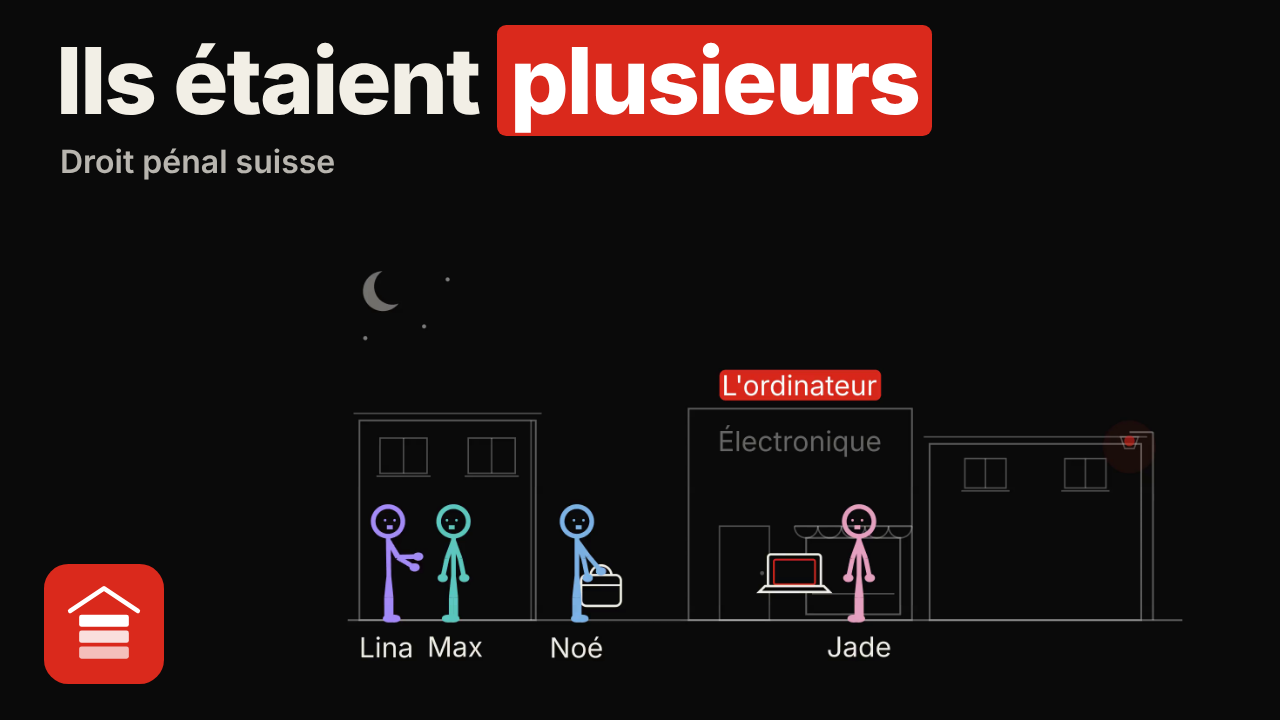
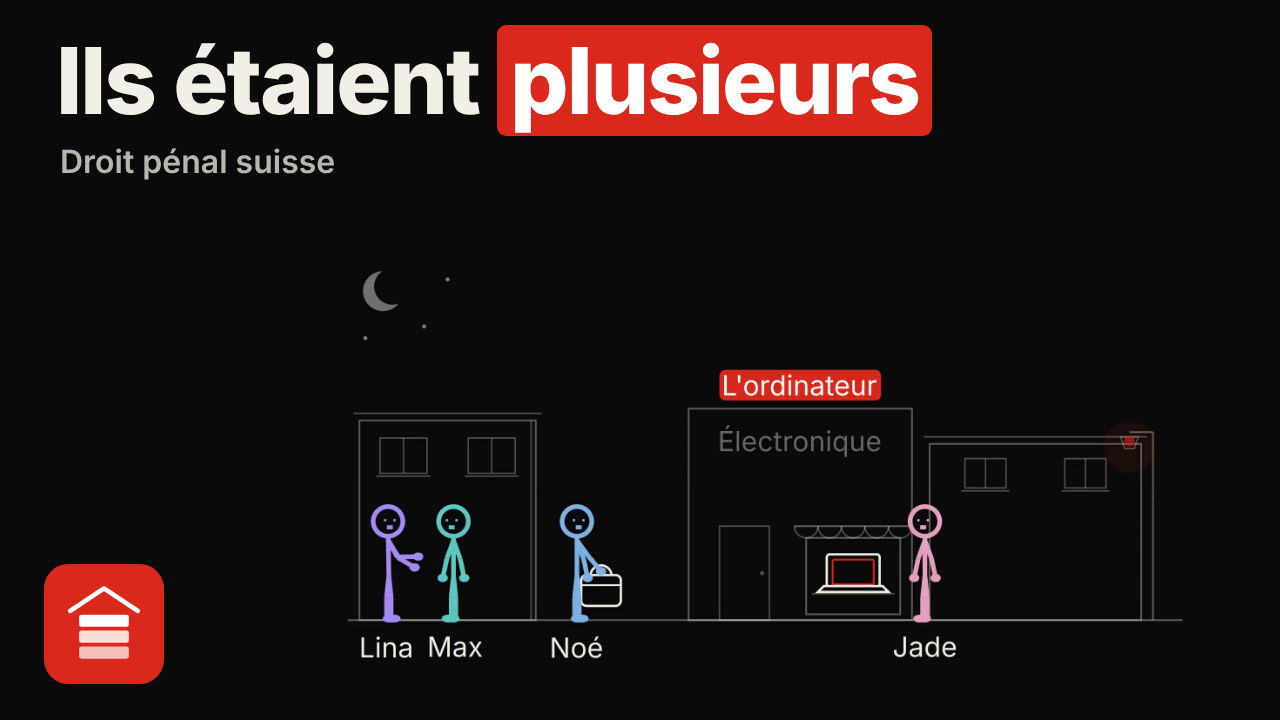
Vidéo 10 : rendu final (enregistrement d'origine, ordinateur en vitrine, « porté »)
Claude-Session: https://claude.ai/code/session_01UWa1JeTci227DpmXZSJt8k

Changed region(s): [[0.5938, 0.7028, 0.75, 0.9167]]

diff --git a/scripts/droit-penal-general/10-participation/publication.md b/scripts/droit-penal-general/10-participation/publication.md
@@ -36,12 +36,12 @@ Paul est, selon toute vraisemblance, complice. Sa voiture a transporté les outi
 
 Chapitres :
 0:00 Le cas de départ
-0:51 La carte : auteurs et participants
-1:19 Les coauteurs : Max et Jade
-2:16 L'instigatrice : Lina
-3:51 Le complice : Noé
-4:58 Le piège classique
-5:55 Conclusion et question
+0:52 La carte : auteurs et participants
+1:20 Les coauteurs : Max et Jade
+2:17 L'instigatrice : Lina
+3:53 Le complice : Noé
+5:00 Le piège classique
+5:56 Conclusion et question
 
 La fiche du cours, gratuite, par e-mail : https://letudedudroit.ch/#fiches
 Script complet, audit des sources et code : https://github.com/Skippy90/letudedudroit/tree/main/scripts/droit-penal-general/10-participation
